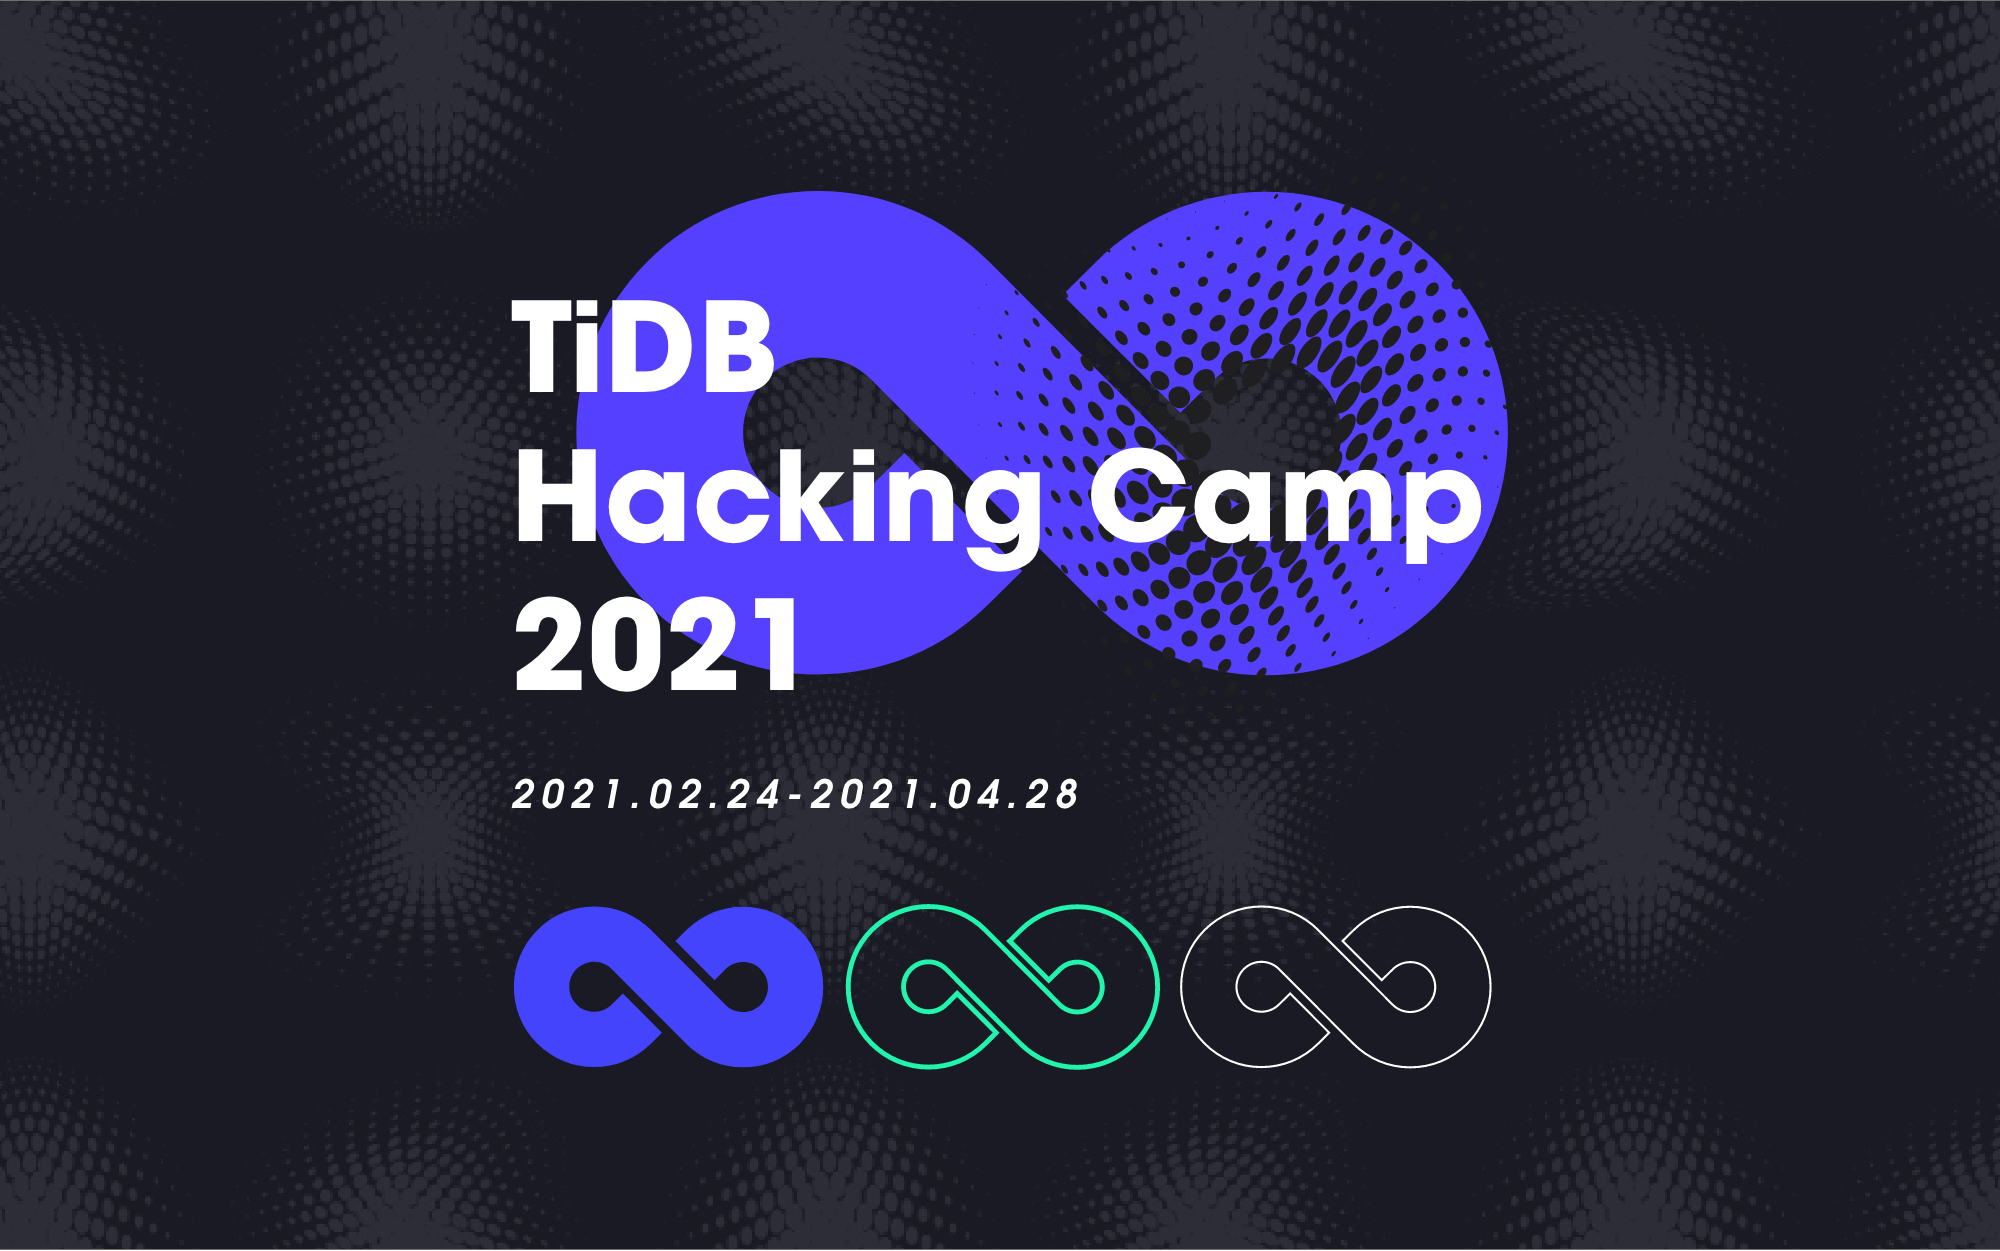
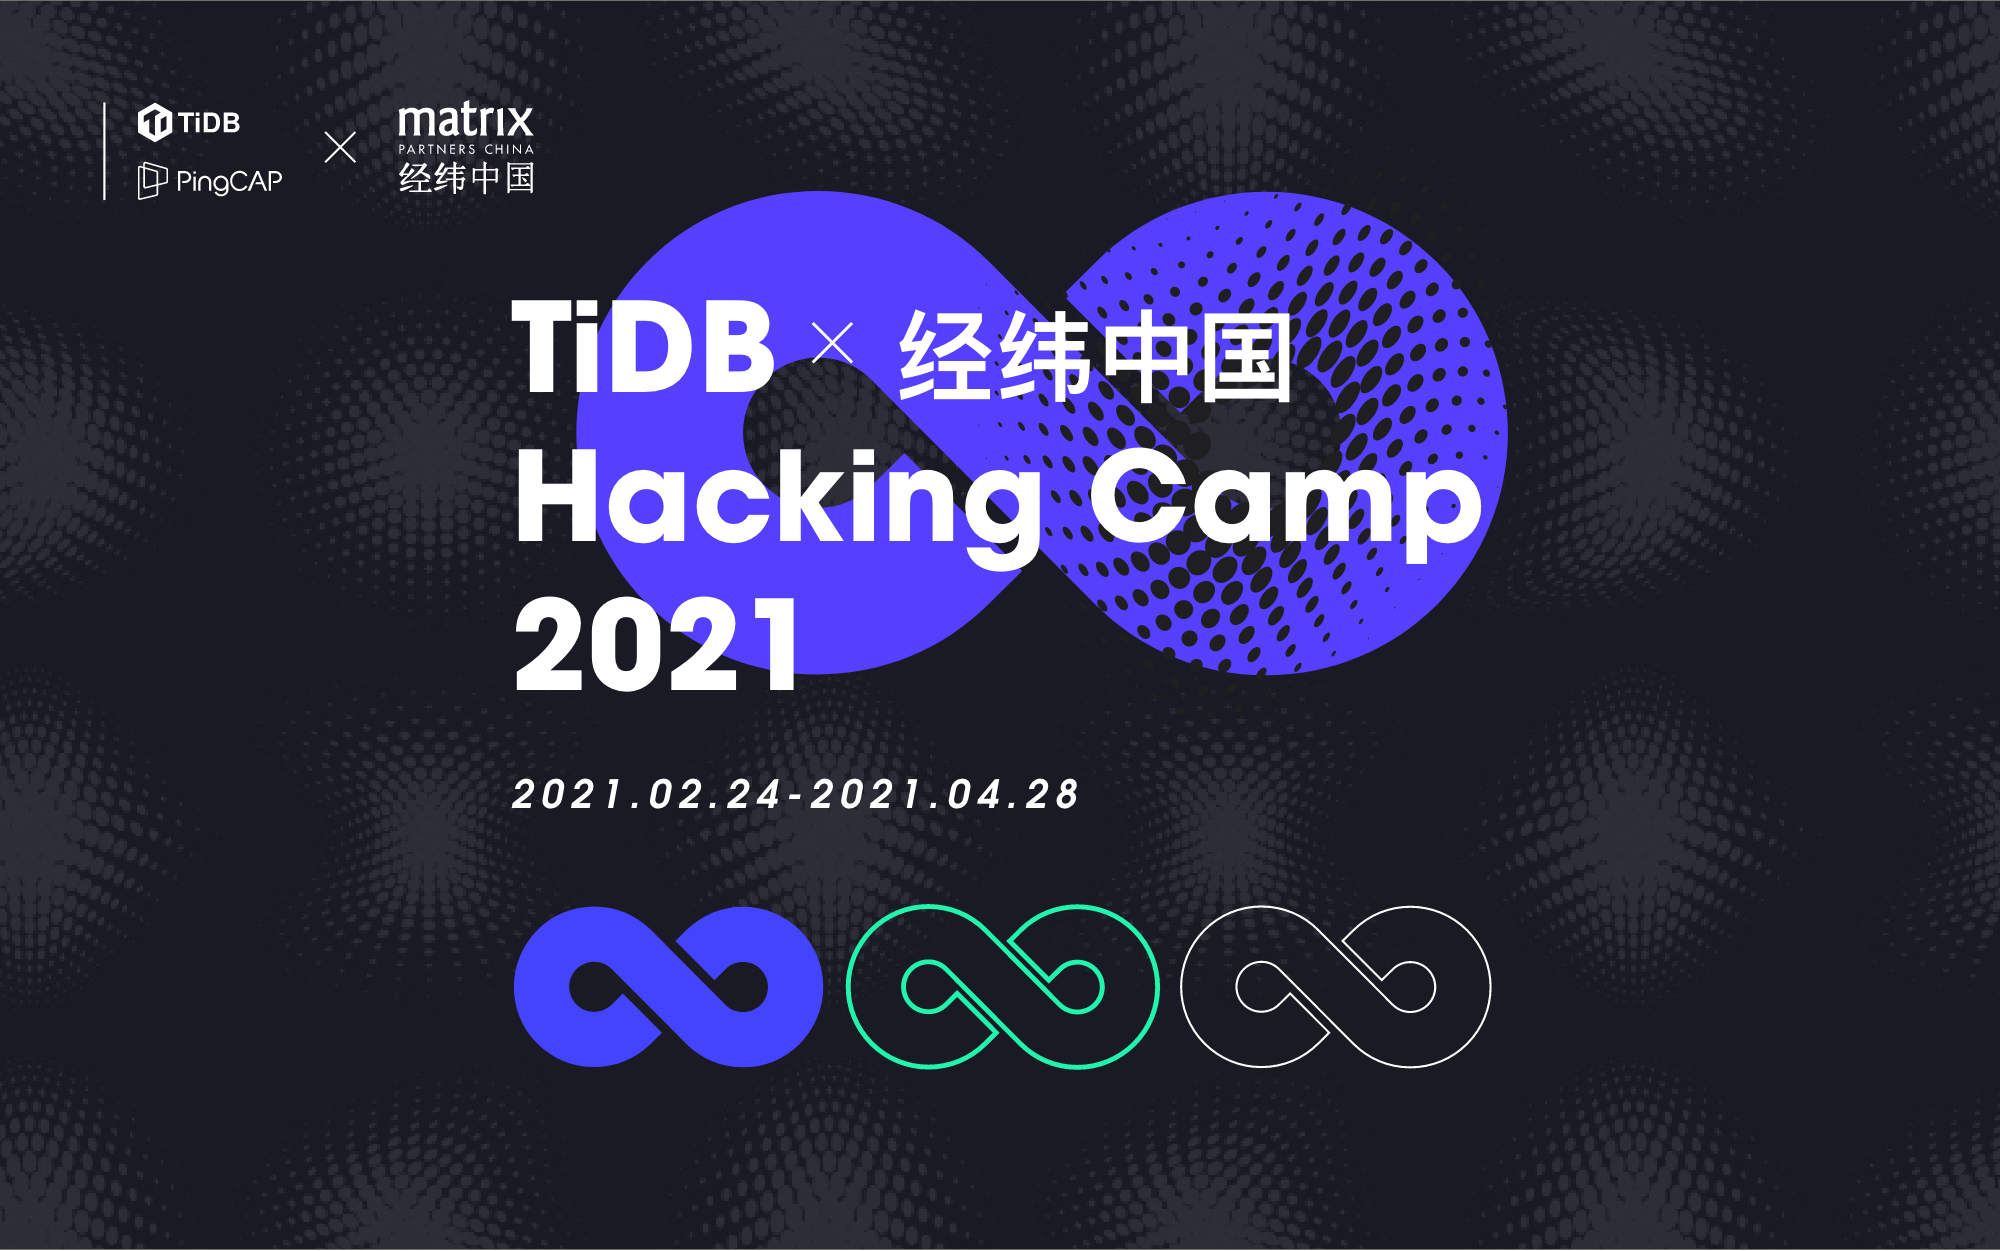
chore: update hacking camp 2021 content

Changed region(s): [[0.403, 0.2494, 0.651, 0.3429], [0.186, 0.0624, 0.279, 0.1559], [0.062, 0.0624, 0.155, 0.1559]]

diff --git a/src/less/community/hackathon2020.less b/src/less/community/hackathon2020.less
@@ -91,8 +91,7 @@
     width: 100%;
     height: 10em;
     padding: 3em;
-    background: center / cover no-repeat
-      url('https://download.pingcap.com/images/community/hackathon2020/bg-banner.jpg');
+    background: center / cover no-repeat url('https://download.pingcap.com/images/community/hackathon2020/bg-banner.jpg');
 
     .title {
       color: #fff;
@@ -110,8 +109,7 @@
       width: 16em;
       top: 1em;
       right: 3em;
-      background: center / contain no-repeat
-        url('https://download.pingcap.com/images/community/hackathon2020/modal-header-inner.svg');
+      background: center / contain no-repeat url('https://download.pingcap.com/images/community/hackathon2020/modal-header-inner.svg');
     }
   }
 
@@ -169,8 +167,7 @@
         width: 1.5em;
         height: 1.5em;
         border-radius: 50%;
-        background: center / cover no-repeat
-          url('https://download.pingcap.com/images/community/hackathon2020/spot.svg');
+        background: center / cover no-repeat url('https://download.pingcap.com/images/community/hackathon2020/spot.svg');
       }
     }
 
@@ -232,16 +229,30 @@
   }
 }
 
+.hacking-cam2021__banner {
+  background: url(https://download.pingcap.com/images/community/hacking-camp-2021-s1/banner-inner.png) no-repeat;
+  padding-top: 28%;
+  position: relative;
+  width: 100%;
+  height: 0;
+  background-size: cover !important;
+  background-position: center !important;
+  margin-top: 2rem;
+}
+
 .hackathon2020__banner {
   width: 100%;
   height: 0;
-  background: center / cover no-repeat
-    url('https://download.pingcap.com/images/community/hackathon2020/bg-banner.jpg');
+  background: center / cover no-repeat url('https://download.pingcap.com/images/community/hackathon2020/bg-banner.jpg');
   margin-top: @headerHeight;
   padding: 30em 1em 0 1em;
 
   .container {
     position: relative;
+  }
+
+  .hacking-camp {
+    background: center / contain no-repeat url('https://download.pingcap.com/images/community/hacking-camp-2021-s1/banner-inner.png');
   }
 
   .banner__inner {
@@ -250,13 +261,7 @@
     left: 0;
     width: 48em;
     height: 16em;
-    background: left / contain no-repeat
-      url('https://download.pingcap.com/images/community/hackathon2020/banner-inner.svg');
-
-    &.hacking-camp {
-      background: left / contain no-repeat
-      url('https://download.pingcap.com/images/community/hacking-camp-2021-s1/banner-inner.png');
-    }
+    background: left / contain no-repeat url('https://download.pingcap.com/images/community/hackathon2020/banner-inner.svg');
   }
 
   .banner__buttons {
@@ -310,8 +315,7 @@
 
 .hackathon2020__section-about {
   .container {
-    background: center / contain no-repeat
-      url('https://download.pingcap.com/images/community/hackathon2020/infinite-grey.svg');
+    background: center / contain no-repeat url('https://download.pingcap.com/images/community/hackathon2020/infinite-grey.svg');
   }
 
   .image-container {
@@ -355,8 +359,7 @@
   .highlight__title {
     height: 3em;
     line-height: 3em;
-    background: center / contain no-repeat
-      url('https://download.pingcap.com/images/community/hackathon2020/infinite-blue.svg');
+    background: center / contain no-repeat url('https://download.pingcap.com/images/community/hackathon2020/infinite-blue.svg');
     font-size: 1.25em;
     color: @secondaryGreen;
   }
@@ -388,7 +391,7 @@
     position: relative;
     background-color: #FFFFFF;
     box-shadow: 0 0.5em 1em -0.125em rgba(10, 10, 10, 0.05),
-    0 0 0 1px rgba(10, 10, 10, 0.02);
+      0 0 0 1px rgba(10, 10, 10, 0.02);
 
     &.hacking-camp {
       margin: 30px;
@@ -405,7 +408,7 @@
   .team-info {
     text-align: center;
     color: #1A1A24;
-    margin-top:18px;
+    margin-top: 18px;
 
     p {
       margin: 15px 20px;
@@ -594,8 +597,7 @@
   margin: 1em 1.5em;
   padding: 2em 3em;
   border-radius: 10px;
-  background: center / cover no-repeat
-    url('https://download.pingcap.com/images/community/hackathon2020/bg-banner.jpg');
+  background: center / cover no-repeat url('https://download.pingcap.com/images/community/hackathon2020/bg-banner.jpg');
   color: #fff;
 
   .btn {
@@ -620,8 +622,7 @@
 .schedule__title {
   height: 4em;
   line-height: 2em;
-  background: center / contain no-repeat
-    url('https://download.pingcap.com/images/community/hackathon2020/infinite-dark-blue.svg');
+  background: center / contain no-repeat url('https://download.pingcap.com/images/community/hackathon2020/infinite-dark-blue.svg');
   color: @secondaryGreen;
 
   .name {
@@ -979,8 +980,7 @@
       left: 2em;
       width: 12em;
       height: 12em;
-      background: center / contain no-repeat
-        url('https://download.pingcap.com/images/community/hackathon2020/printing-wormhole.svg');
+      background: center / contain no-repeat url('https://download.pingcap.com/images/community/hackathon2020/printing-wormhole.svg');
     }
 
     &::after {
@@ -990,19 +990,16 @@
       right: 2em;
       width: 12em;
       height: 12em;
-      background: center / contain no-repeat
-        url('https://download.pingcap.com/images/community/hackathon2020/printing-ripple.svg');
+      background: center / contain no-repeat url('https://download.pingcap.com/images/community/hackathon2020/printing-ripple.svg');
     }
 
     &.hackathon2020__section-faq {
       &::before {
-        background: center / contain no-repeat
-          url('https://download.pingcap.com/images/community/hackathon2020/printing-wormhole-blue.svg');
+        background: center / contain no-repeat url('https://download.pingcap.com/images/community/hackathon2020/printing-wormhole-blue.svg');
       }
 
       &::after {
-        background: center / contain no-repeat
-          url('https://download.pingcap.com/images/community/hackathon2020/printing-ripple-blue.svg');
+        background: center / contain no-repeat url('https://download.pingcap.com/images/community/hackathon2020/printing-ripple-blue.svg');
       }
     }
   }
@@ -1122,6 +1119,12 @@
 }
 
 @media (max-width: 428px) {
+  .hacking-cam2021__banner {
+    background: url(https://download.pingcap.com/images/community/activities/home-tidb-hacking-camp-2021-carousel.png) no-repeat;
+    padding-top: 68%;
+    margin-top: 3rem;
+  }
+
   .hackathon2020 .modal__header {
     padding: 3em 1em;
 

diff --git a/layouts/community-cn/hacking-camp-2021-season-1.html b/layouts/community-cn/hacking-camp-2021-season-1.html
@@ -13,10 +13,7 @@
 
 {{- define "main" -}}
 <div class="hackathon2020">
-    <section class="hackathon2020__banner">
-		<div class="container">
-			<div class="banner__inner hacking-camp"></div>
-		</div>
+    <section class="hacking-cam2021__banner">
 	</section>
 
 	<section class="hackathon2020__navbar navbar-sticky">
@@ -45,7 +42,7 @@
 				2021 年 1 月结束的 TiDB 黑客马拉松中诞生了许多明星项目，如 UDF、图数据库、文档自动纠错等等，为 TiDB 构建了丰富的生态和卓越的性能提升，令人不禁感叹「社区的力量」。
 			</p>
 			<p class="hackathon2020__intro">
-				为了让这些项目能够真正落地，继续在社区中发光发热，PingCAP 计划在 2 月举办一个为期 8 周的 Hacking Camp。由 PingCAP 提供导师，帮助项目团队一起制定合理的后续计划，并将向社区公开阶段性成果。
+				为了让这些项目能够真正落地，继续在社区中发光发热，TiDB 社区联合经纬中国计划在 2 月举办一个为期 8周的 Hacking Camp。本次活动将邀请 PingCAP 及合作伙伴提供导师，帮助项目团队一起制定合理的后续计划和商业方向，并将向社区公开阶段性成果。
 			</p>
 			<p class="hackathon2020__intro">第一期 Hacking Camp 结束后将由每支队伍的导师评估是否可以顺利毕业。所有毕业的团队队员将获得 TiDB 定制周边一份。</p>
 		</div>
@@ -111,7 +108,24 @@
     </section>
 
 	<section class="hackathon2020__section">
-		<h2 class="section__title" id="partners">支持企业及社区</h2>
+		<h2 class="section__title" id="partners">赞助合作</h2>
+		<h3 class="sponsor-type">独家冠名</h3>
+        <div class="list-flex container partners-list hacking-camp">
+			{{- range $idx, $i := .Site.Data.hacking_camp_2021_s1.exclusive -}}
+				<a href="{{ $i.link }}" target="_blank" rel="noopener noreferrer">
+					<img class="lazy" data-original="{{ $i.img }}" src="/images/svgs/loader-spinner.svg" alt="sponsor logo">
+				</a>
+            {{- end -}}
+        </div>
+		<h3 class="sponsor-type">协办方</h3>
+        <div class="list-flex container partners-list hacking-camp">
+			{{- range $idx, $i := .Site.Data.hacking_camp_2021_s1.sponsors1 -}}
+				<a href="{{ $i.link }}" target="_blank" rel="noopener noreferrer">
+					<img class="lazy" data-original="{{ $i.img }}" src="/images/svgs/loader-spinner.svg" alt="sponsor logo">
+				</a>
+            {{- end -}}
+        </div>
+		<h3 class="sponsor-type">支持企业及社区</h3>
         <div class="list-flex container partners-list hacking-camp">
 			{{- range $idx, $i := .Site.Data.hacking_camp_2021_s1.sponsors2 -}}
 				<a href="{{ $i.link }}" target="_blank" rel="noopener noreferrer">
